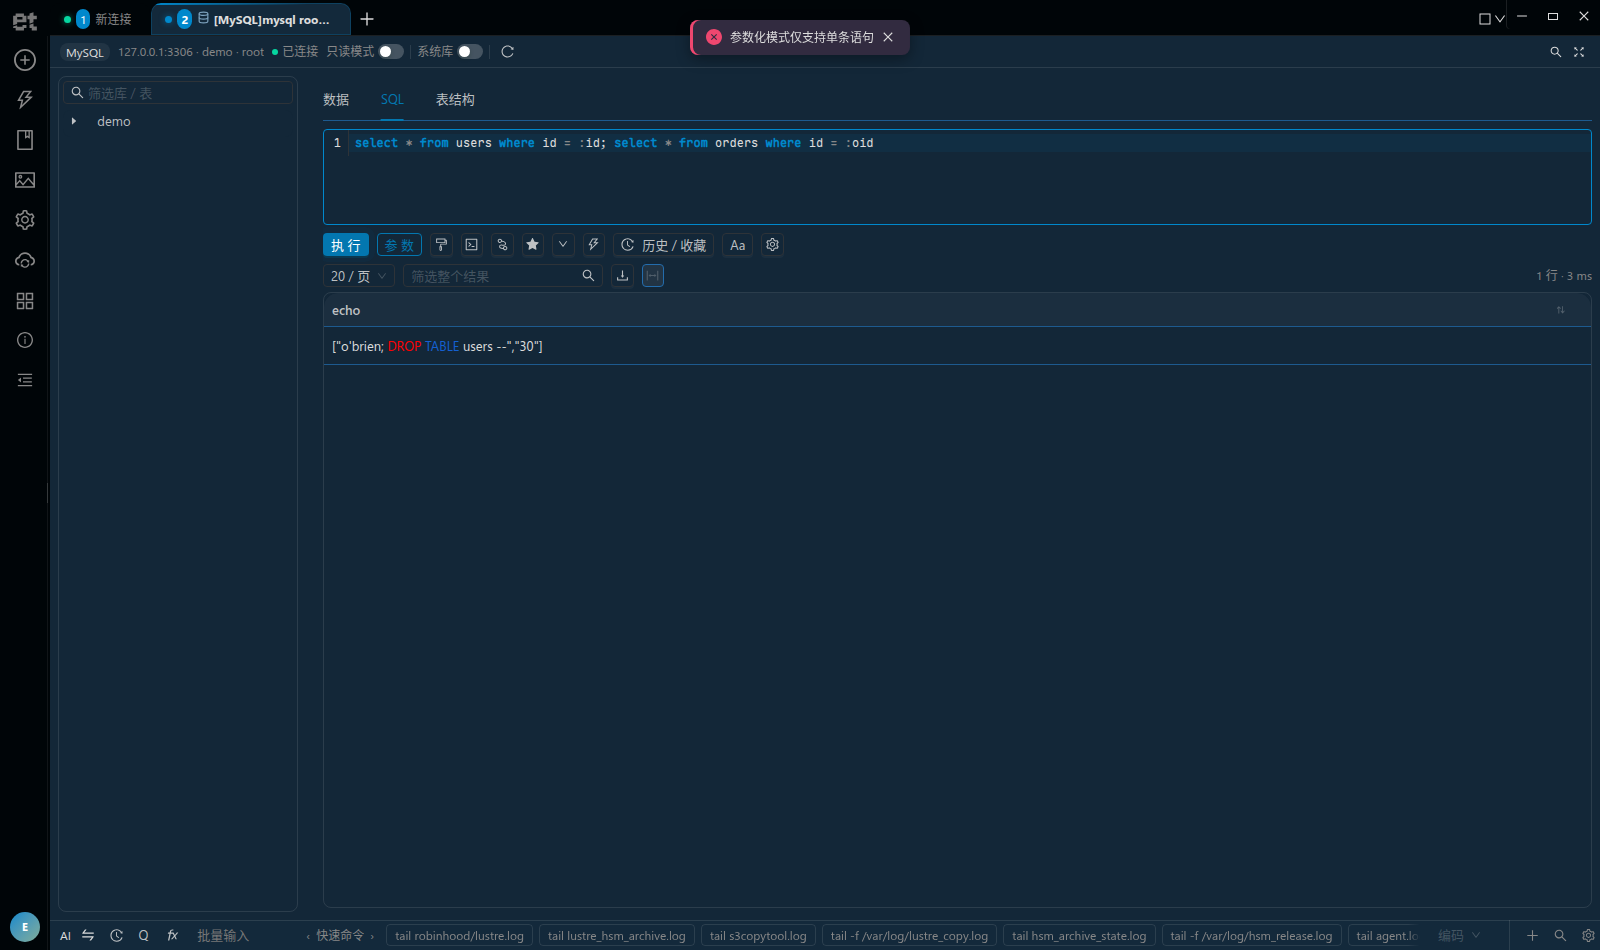
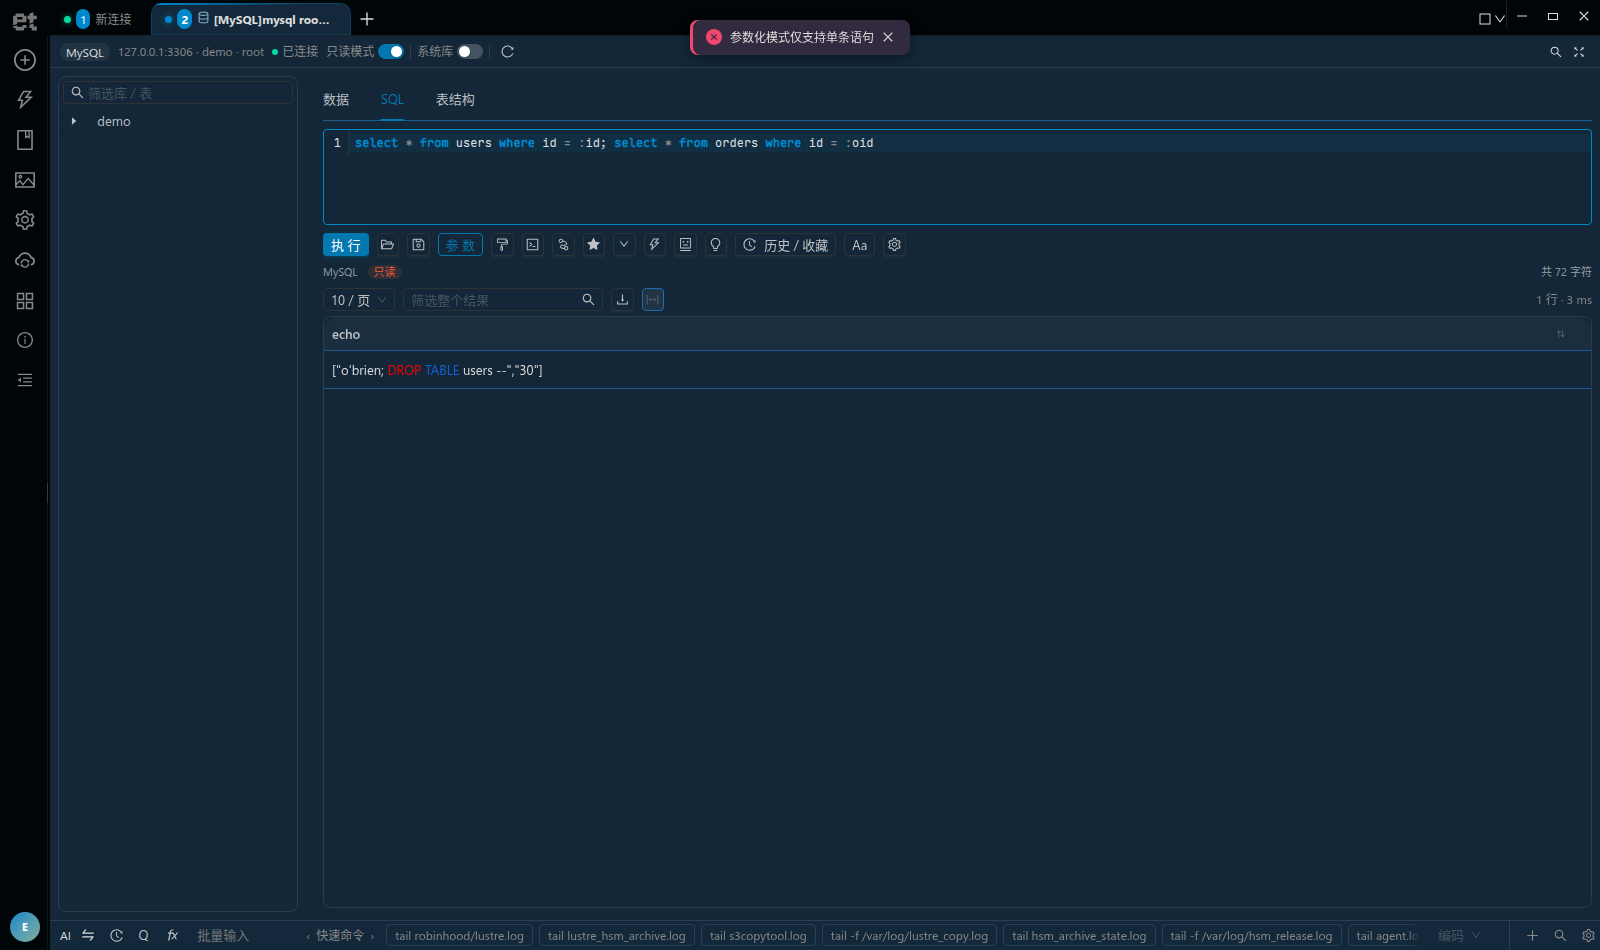
test(db): 参数面板自测页签改吃产品默认只读，只读态那条路终于有人走
从前这里把 addTab 写死 readOnly:false。产品口径是相反的——渲染层 tab.readOnly !== false、
主进程 db-client/index.js:196 同口径，默认就是只读；而这个脚本用到的语句全是 select，
关掉只读一样换不来任何东西，代价是"只读态下参数面板能不能正常收值、只读牌在不在场"
这条真实路径长期没人覆盖（只读锁死编辑器那次回归就是这么漏掉的）。

改成 readOnly: true，并断言编辑器状态行的只读牌在场（文案走词条，不是 key）。
反向对照：把页签改回可写，这一条立刻 FAIL、退出码 1（30/31）；改回只读 31/31。
截图 4 张按新状态重出。

Changed region(s): [[0.1875, 0.2442, 0.5625, 0.3968], [0.9688, 0.2747, 1.0, 0.3053], [0.2188, 0.0305, 0.25, 0.0611]]

diff --git a/self-test/db-sql-params-demo.js b/self-test/db-sql-params-demo.js
@@ -201,7 +201,10 @@ const OPEN_TAB = `
     dbPassword: '',
     dbName: 'demo',
     dbSsl: false,
-    readOnly: false,
+    // 吃产品默认（渲染层 tab.readOnly !== false、主进程同口径 → 默认只读）。
+    // 从前这里写死 false 图省事，于是"只读态下参数面板能不能正常收值、编辑器该不该锁输入"
+    // 这条真实路径长期没人走——本脚本的语句全是 select，关掉只读换不来任何东西。
+    readOnly: true,
     production: false,
     batch: window.store.currentLayoutBatch
   })
@@ -342,6 +345,14 @@ const main = async () => {
   await waitFor(cdp, "!!document.querySelector('.db-sql-area .cm-content')", 'sql editor', 30000)
   await cdp.eval('window.__clickTab("^SQL$")')
   await sleep(500)
+
+  // 只读牌在场 = 这一轮真的在"产品默认只读"下跑（不是页签自己关掉的那条路径）。
+  // 只读态只拦写语句，不锁编辑器：下面的 setSql 能打进 select 语句本身就是这条契约的证据。
+  const readonlyChip = await cdp.eval(
+    "(() => { const el = [...document.querySelectorAll('.db-sql-status-readonly')].find(window.__vis); return el ? el.innerText.trim() : null })()"
+  )
+  check('页签吃产品默认只读（状态行只读牌在场）',
+    !!readonlyChip && !/DbSqlReadOnly|dbReadOnly/.test(readonlyChip), readonlyChip)
 
   const btn = await cdp.eval('(window.__paramBtn() || {}).innerText || null')
   // antd 6 会在两个汉字中间插空格（"参 数"），判定前先抹掉空白
